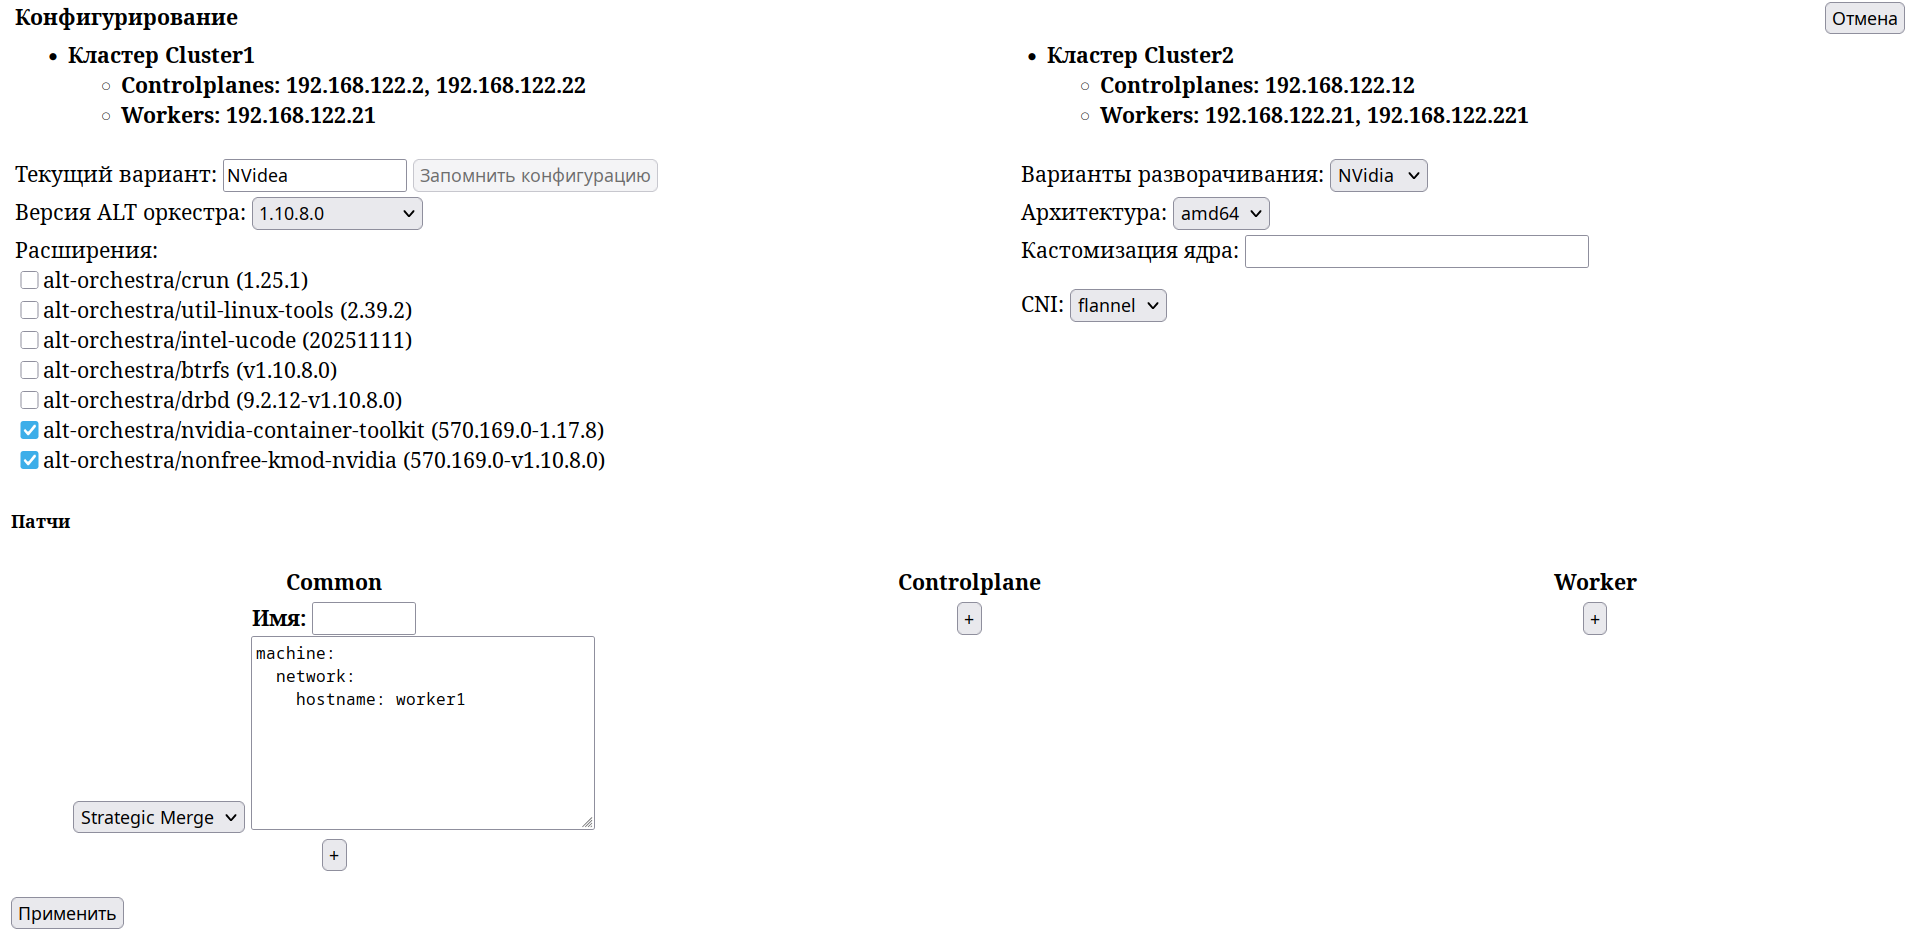
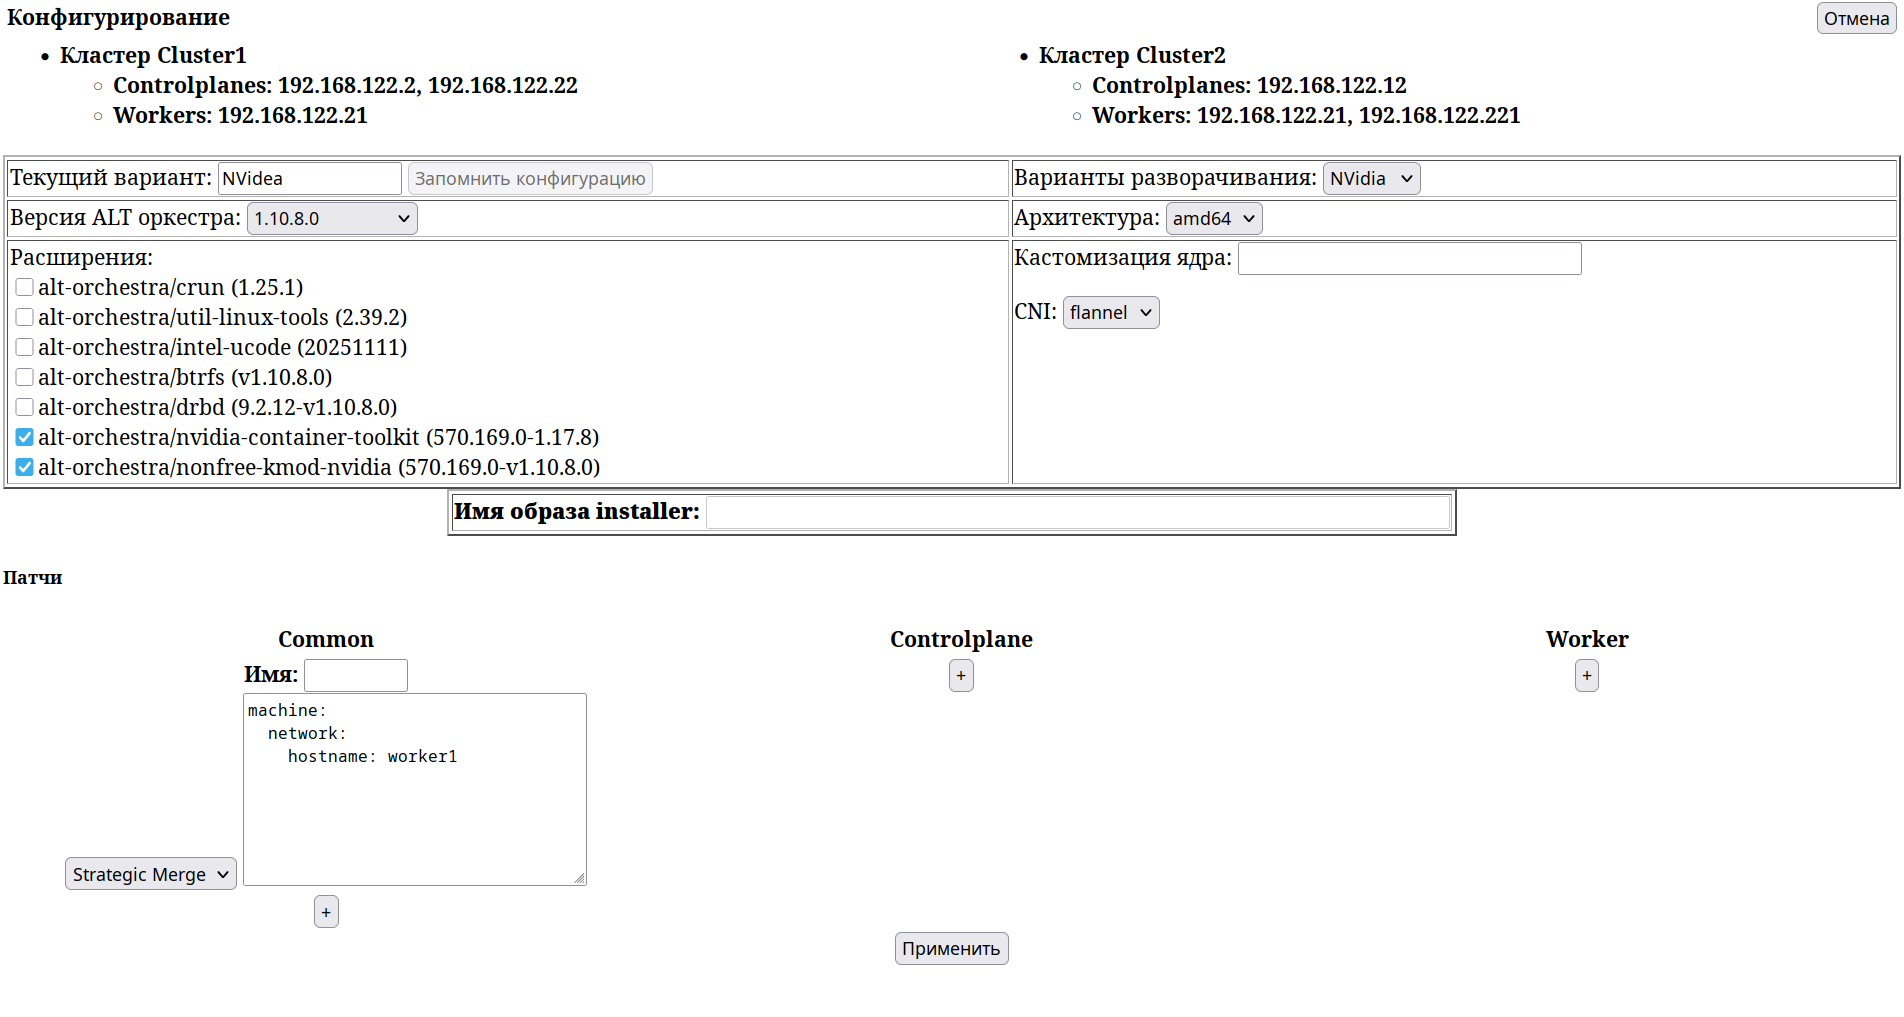
Rewrite pageView.png

diff --git a/docs/task1/factory.html b/docs/task1/factory.html
@@ -33,7 +33,7 @@
 </tr>
 </table>
 
-<table width='100%'>
+<table width='100%' border='2' >
 <tr>
 <td>
 Текущий вариант: <input type='input' size='16' value='NVidea'/>
@@ -93,7 +93,9 @@ CNI:
 </tr>
 </table>
 
-
+<table border='2' align='center'><tr><th>
+<b>Имя образа installer:</b> <input type='input' size='72' disabled />
+</th></tr></table>
 
 <h5>Патчи</h5>
 
@@ -128,9 +130,9 @@ CNI:
 <th>&nbsp;</th>
 </tr>
 </table>
-<p>
-<button type='submit'>Применить</button>
-</p>
+<center>
+<button type='submit' align='center'>Применить</button>
+</center>
 
 </form>
 </body>
